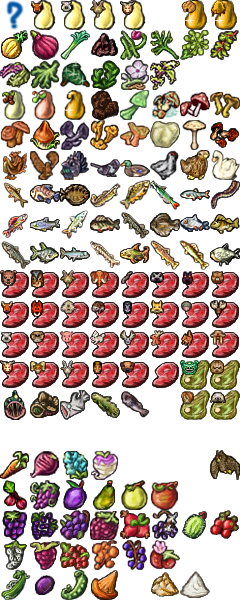
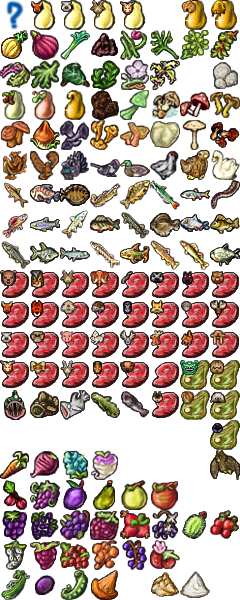
Ant and Wolf added

Changed region(s): [[0.6125, 0.63, 0.7583, 0.72], [0.875, 0.69, 1.0, 0.75], [0.875, 0.09, 0.9917, 0.15]]

diff --git a/tables.js b/tables.js
@@ -83,6 +83,7 @@ var gl_mushroom = [
 	"Parasol Mushroom",
 	"Parboiled Morels",
 	"Troll Mushrooms",
+	"White Truffles",
 	"Yellowfeet"
 ];
 var gl_poultry = [
@@ -137,6 +138,7 @@ var gl_fat = [
 ];
 var gl_meat = [
 	"Adder",
+	"Ant",
 	"Badger",
 	"Bat",
 	"Bear",
@@ -176,10 +178,12 @@ var gl_meat = [
 	"Wild Horse",
 	"Wild Mutton",
 	"Wildgoat",
+	"Wolf",
 	"Wolverine",
 	"Wood Grouse"
 ];
 var gl_meatweird = [
+	"Ant",
 	"Boreworm",
 	"Cave louse",
 	"Chasm conch",
@@ -595,12 +599,7 @@ var gl_food = [
 	["Yellowfeet", [], {"str1" : 1, "int1" : 1}, 125, 1],
 	["Zamorano", [], {"str2" : 3, "agi2" : 3, "psy2" : 3}, 100, 4],
 	
-	//VARIA
-	//unpublished
-
-	["Sizzling Roast Pork", ["spice"], {"str2" : 3.75, "con2" : 3.75}, 250.0, 4.0], 
-	["Hop Jellies", ["spice", "honey"], {"str1": 1, "wil2": 2}, 500, 1],
-	["Cave Skewer",	["meatweird"],	{"psy2" : 2.0, "con1" : 3.0}, 800.0, 3.0],
+//VARIA
 	["Autumn Steak", ["mushroom", "meat", "salad", "spice"], {"con1" : 4, "prc1" : 2, "prc2" : 1}, 800, 3],
 	["Beeted Bird Breast", ["poultry", "fat"], {"con1" : 4, "csm1" : 4, "psy1" : 4}, 750, 5],
 	["Big Bear Banger", ["pork"], {"str1" : 6, "str2" : 4}, 900, 10],
@@ -613,6 +612,7 @@ var gl_food = [
 	["Butter-steamed Cavebulb", ["butter"], {"psy1" : 6, "psy2" : 4}, 600, 3],
 	["Buttered Leeks", ["butter"], {"con1" : 2, "wil2" : 3}, 500, 3],
 	["Candy Apple", ["sweetener"], {"int1" : 2, "csm2" : 1}, 500, 1.5],
+	["Cave Skewer",	["meatweird"],	{"psy2" : 2.0, "con1" : 3.0}, 800.0, 3.0],
 	["Chicken Chorizo", ["mutton"], {"prc1" : 5, "dex1" : 3, "wil1" : 1}, 400, 4.5],
 	["Chicken Salad", ["salad", "spice"], {"con1" : 3, "prc1" : 3, "dex1" : 3}, 500, 5],
 	["Clambake", ["fish", "spice"], {"prc1" : 4, "csm1" : 4, "csm2" : 2}, 500, 5],
@@ -631,6 +631,7 @@ var gl_food = [
 	["Glazed Grazer Dog", ["horse", "honey"], {"str1" : 3, "csm1" : 4, "dex1" : 3}, 600, 4],
 	["Haggis", ["onion", "flour", "mutton"], {"con1" : 5, "csm2" : 3}, 800, 3],
 	["Honey'd Bear", ["fat", "spice", "honey"], {"str2" : 3, "con1" : 2, "wil2" : 3}, 500, 2.5],
+	["Hop Jellies", ["spice", "honey"], {"str1": 1, "wil2": 2}, 500, 1],
 	["Hot Wings", ["butter"], {"str2" : 1, "csm2" : 2, "psy1" : 2}, 500, 2],
 	["Jotun's Morsel", ["meat", "fat", "spice"], {"str1" : 4, "int2" : 2, "con1" : 4, "wil1" : 4}, 1000, 8],
 	["Lamb Sausages", ["pork"], {"prc1" : 7}, 600, 5.5],
@@ -653,6 +654,7 @@ var gl_food = [
 	["Rabbit Food", ["salad"], {"prc1" : 1, "csm1" : 1, "wil1" : 1}, 150, 3],
 	["Red-Shred Salad", ["salad"], {"int1" : 1, "con1" : 2, "csm1" : 1}, 400, 3.5],
 	["Ring of Brodgar (Seafood)", ["fat"], {"agi1" : 3, "prc1" : 2, "psy1" : 4}, 750, 3],
+	["Sizzling Roast Pork", ["spice"], {"str2" : 3.75, "con2" : 3.75}, 250.0, 4.0], 
 	["Spicy Salad", ["tuber", "salad", "onion", "spice"], {"str2" : 1, "agi1" : 1, "csm1" : 3}, 500, 3],
 	["Steak & Tubers", ["meat", "onion", "tuber", "spice"], {"str1" : 2, "con2" : 2, "csm1" : 2}, 800, 4],
 	["Strawberries in Cream", ["milk"], {"int2" : 2, "csm1" : 2, "wil1" : 2}, 500, 1],
@@ -662,10 +664,10 @@ var gl_food = [
 	["Turnip Fries", ["fat"], {"int1" : 2, "prc2" : 2}, 500, 2.5],
 	["Two-Bird Skewer", ["poultry", "tuber", "sweetener"], {"agi1" : 2, "wil1" : 3}, 800, 2.5],
 	["Zesty Brill", ["onion"], {"str1" : 3, "dex1" : 3, "wil1" : 4}, 800, 2.5],
-	//BAKED
+//BAKED
 	["Apple Pie", ["water", "flour", "butter"], {"con1" : 10}, 500, 3.5],
-	["Bark Bread", ["water", "flour"], {"con1" : 5, "wil1" : 5}, 500, 5],
 	["Baked Birchbark Bream", ["onion"], {"int1" : 5, "csm1" : 5, "dex1" : 4}, 600, 3],
+	["Bark Bread", ["water", "flour"], {"con1" : 5, "wil1" : 5}, 500, 5],
 	["Birthday Cake", ["water", "flour", "milk", "butter", "honey"], {"csm2" : 10, "psy2" : 3}, 1000, 3.5],
 	["Blueberry Pie", ["water", "flour"], {"int1" : 4, "prc1" : 3}, 200, 3.5],
 	["Bread", ["water", "flour"], {"con1" : 5}, 500, 6],
@@ -695,8 +697,8 @@ var gl_food = [
 	["Mushroom Pie", ["water", "flour", "mushroom", "fat"], {"int1" : 3, "csm2" : 3}, 750, 3],
 	["Mushroom-Burst Glutton", ["carcass", "mushroom", "spice"], {"con1" : 2, "prc1" : 2, "csm2" : 1}, 750, 3],
 	["Nutjerky", ["meat"], {"str1" : 2, "csm1" : 1, "wil1" : 1}, 500, 2],
-	["Pea Pie", ["water", "flour"], {"con1" : 4, "prc1" : 1, "csm1" : 2}, 500, 3.5],
 	["Pancake", ["butter", "flour", "milk"], {"csm1" : 5}, 500, 4],
+	["Pea Pie", ["water", "flour"], {"con1" : 4, "prc1" : 1, "csm1" : 2}, 500, 3.5],
 	["Pommace Perdue", ["butter", "flour", "milk", "sweetener"], {"agi1" : 3, "prc1" : 4, "csm2" : 1}, 750, 3],
 	["Poultry Pot Pie", ["water", "flour", "poultry"], {"agi1" : 3, "csm1" : 2, "dex2" : 3}, 500, 4],
 	["Pumpkin Bread", ["water", "flour"], {"con1" : 4, "csm1" : 2}, 500, 5],
@@ -722,6 +724,94 @@ var gl_fepmod = [
 	["Meat-in-Jelly", ["Eagle Owl"], {"wil2" : 0.8, "con1" : 4.0, "int1" : 2.0}], 
 	["Butcher's Surprise", ["Eagle Owl"], {"prc1" : 1.0, "dex1" : 1.0, "csm1" : 0.4, "int2" : 1.0}], 
 	["Encumbered Roast", ["Eagle Owl"], {"str2" : 3.0, "wil1" : 2.0, "prc1" : 0.8, "int2" : 2.0}], 
+	["Moules Frites", ["Black Pepper", "Beetroot"], {"dex2" : 4.76, "csm1" : 5.25, "psy1" : 2.86, "dex1" : 2.24}], 
+	["Sweet Beets", ["Wild-bee Honey"], {"con1" : 0.8, "csm1" : 2.8, "wil1" : 2.0}], 
+	["Dressed Lettuce", ["Wild-bee Honey"], {"agi2" : 0.4, "prc2" : 2.0, "csm1" : 4.0, "wil1" : 0.4}], 
+	["Marrow Roast", ["Wolf"], {"csm2" : 1.5, "con1" : 2.0, "wil1" : 2.0, "str2" : 3.0}], 
+	["Marrow Roast", ["Ant"], {"csm2" : 1.2, "con1" : 2.0, "wil1" : 4.7}], 
+	["Marrow Roast", ["Eagle Owl"], {"csm2" : 3.0, "con1" : 2.0, "wil1" : 0.8, "prc1" : 2.0}], 
+	["Glazed Grazer Dog", ["Horse", "Wild-bee Honey"], {"csm1" : 0.96, "str1" : 3.0, "dex1" : 3.0, "agi2" : 2.4, "wil1" : 0.96}], 
+	["Glazed Grazer Dog", ["Wild-bee Honey", "Wild Horse"], {"csm1" : 1.6, "str1" : 4.2, "dex1" : 3.0, "wil1" : 0.4}], 
+	["Encumbered Roast", ["Ant"], {"str2" : 1.2, "wil1" : 2.0, "prc1" : 2.0, "agi1" : 2.7}], 
+	["Encumbered Roast", ["Wolf"], {"str2" : 4.5, "wil1" : 2.0, "prc1" : 2.0}], 
+	["Butcher's Surprise", ["Ant"], {"prc1" : 0.4, "dex1" : 1.0, "csm1" : 1.0, "agi1" : 0.9}], 
+	["Butcher's Surprise", ["Wolf"], {"prc1" : 0.5, "dex1" : 1.0, "csm1" : 1.0, "str1" : 1.0}], 
+	["Cave Skewer", ["Ant"], {"psy2" : 0.8, "con1" : 3.0, "wil1" : 1.8}], 
+
+	["Beeted Bird Breast", ["Eagle Owl", "Cowsmilk"], {"con1" : 3.0, "csm1" : 4.0, "psy1" : 1.2, "int1" : 4.0, "str1" : 1.96}], 
+	["Beeted Bird Breast", ["Eagle Owl", "Goatsmilk"], {"con1" : 3.0, "csm1" : 4.0, "psy1" : 1.2, "int1" : 4.0, "wil1" : 1.96}], 
+	["Beeted Bird Breast", ["Eagle Owl", "Sheepsmilk"], {"con1" : 3.0, "csm1" : 4.0, "psy1" : 1.2, "int1" : 4.0, "dex1" : 1.96}], 
+	["Beeted Bird Breast", ["Eagle Owl", "Aurochs Milk"], {"con1" : 2.6, "csm1" : 4.0, "psy1" : 1.04, "int1" : 4.0, "str1" : 1.4}], 
+	["Broiled Burbot", ["Laurel Leaves", "Heartwood Leaves"], {"wil2" : 2.8, "csm1" : 8.94, "int1" : 1.2}], 
+	["Broiled Burbot", ["Heartwood Leaves", "Chives"], {"wil2" : 2.8, "csm1" : 6.0, "int1" : 1.2, "agi1" : 1.1765}], 
+	["Broiled Burbot", ["Black Pepper", "Heartwood Leaves"], {"wil2" : 4.172, "csm1" : 8.58, "int1" : 1.788}], 
+	["Broiled Burbot", ["Heartwood Leaves", "Kvann"], {"wil2" : 1.2, "csm1" : 2.8, "int1" : 6.0}], 
+	["Broiled Burbot", ["Heartwood Leaves", "Dill"], {"wil2" : 2.8, "csm1" : 8.4, "int1" : 1.2}], 
+	["Deep Fried Bird", ["Eagle Owl", "Wheat Flour", "Aurochs Milk", "Aurochs Milk"], {"con2" : 2.4, "csm1" : 0.36, "int2" : 0.9, "con1" : 1.8, "str1" : 2.1}], 
+	["Deep Fried Bird", ["Eagle Owl", "Barley Flour", "Aurochs Milk", "Aurochs Milk"], {"con2" : 0.9, "csm1" : 1.08, "int2" : 3.0, "str1" : 1.836}], 
+	["Deep Fried Bird", ["Eagle Owl", "Goatsmilk", "Wheat Flour", "Goatsmilk"], {"con2" : 1.5, "csm1" : 0.6, "int2" : 2.4, "wil1" : 2.94, "con1" : 1.8}], 
+	["Deep Fried Bird", ["Eagle Owl", "Barley Flour", "Goatsmilk", "Goatsmilk"], {"con2" : 1.5, "csm1" : 1.08, "int2" : 3.0, "wil1" : 2.394}], 
+	["Deep Fried Bird", ["Eagle Owl", "Sheepsmilk", "Wheat Flour", "Sheepsmilk"], {"con2" : 1.5, "csm1" : 0.6, "int2" : 2.4, "dex1" : 2.94, "con1" : 1.8}], 
+	["Deep Fried Bird", ["Eagle Owl", "Barley Flour", "Sheepsmilk", "Sheepsmilk"], {"con2" : 1.5, "csm1" : 1.08, "int2" : 3.0, "dex1" : 2.394}], 
+	["Deep Fried Bird", ["Eagle Owl", "Cowsmilk", "Wheat Flour", "Cowsmilk"], {"con2" : 1.5, "csm1" : 0.6, "int2" : 2.4, "str1" : 2.94, "con1" : 1.8}], 
+	["Deep Fried Bird", ["Eagle Owl", "Barley Flour", "Cowsmilk", "Cowsmilk"], {"con2" : 1.5, "csm1" : 1.08, "int2" : 3.0, "str1" : 2.394}], 
+	["Deep Fried Bird", ["Eagle Owl", "Wheat Flour"], {"con2" : 2.4, "csm1" : 1.2, "int2" : 3.0, "con1" : 1.8}], 
+	["Deep Fried Bird", ["Eagle Owl", "Barley Flour"], {"con2" : 3.0, "csm1" : 1.08, "int2" : 3.0, "str1" : 0.42}], 
+	["Meat-in-Jelly", ["Ant"], {"wil2" : 0.8, "con1" : 4.0, "wil1" : 1.8}], 
+	["Meat-in-Jelly", ["Wolf"], {"wil2" : 2.0, "con1" : 2.0, "str2" : 4.0}], 
+	["Leeky Fowl", ["Eagle Owl", "Cowsmilk"], {"csm2" : 1.5, "csm1" : 2.0, "int1" : 0.6, "prc1" : 2.0, "con1" : 0.98}], 
+	["Leeky Fowl", ["Eagle Owl", "Goatsmilk"], {"csm2" : 1.5, "csm1" : 2.0, "int1" : 0.6, "prc1" : 2.0, "dex1" : 0.98}], 
+	["Leeky Fowl", ["Eagle Owl", "Sheepsmilk"], {"csm2" : 1.5, "csm1" : 2.98, "int1" : 0.6, "prc1" : 2.0}], 
+	["Leeky Fowl", ["Eagle Owl", "Aurochs Milk"], {"csm2" : 1.3, "csm1" : 2.0, "int1" : 0.52, "prc1" : 2.0, "con1" : 0.7}], 
+	["Jotun's Morsel", ["Eagle Owl"], {"str1" : 4.0, "con1" : 4.0, "wil1" : 4.0, "int2" : 0.8, "prc1" : 2.0}], 
+	["Jotun's Morsel", ["Ant"], {"str1" : 1.6, "con1" : 4.0, "wil1" : 4.0, "int2" : 2.0, "agi1" : 3.6}], 
+	["Jotun's Morsel", ["Wolf"], {"str1" : 6.0, "con1" : 4.0, "wil1" : 4.0, "int2" : 2.0}], 
+	["Honey'd Bear", ["Wild-bee Honey"], {"wil2" : 1.2, "str2" : 3.0, "con1" : 2.0, "csm1" : 1.2}], 
+	["Honey'd Bear", ["Laurel Leaves", "Wild-bee Honey"], {"wil2" : 1.764, "str2" : 3.0, "con1" : 2.0, "csm1" : 1.764}], 
+	["Honey'd Bear", ["Black Pepper", "Wild-bee Honey"], {"wil2" : 1.764, "str2" : 5.31, "con1" : 2.76, "csm1" : 1.764}], 
+	["Honey'd Bear", ["Wild-bee Honey", "Chives"], {"wil2" : 1.2, "str2" : 3.0, "con1" : 2.0, "csm1" : 1.2, "agi1" : 0.7683}], 
+	["Honey'd Bear", ["Wild-bee Honey", "Dill"], {"wil2" : 1.2, "str2" : 3.0, "con1" : 2.76, "csm1" : 1.2}], 
+	["Honey'd Bear", ["Wild-bee Honey", "Kvann"], {"wil2" : 1.2, "str2" : 2.0, "con1" : 1.2, "csm1" : 3.0}], 
+	["Marrow Cake", ["Barley Flour", "Wild-bee Honey"], {"dex2" : 1.2, "str1" : 2.7, "con1" : 1.05, "csm1" : 1.2}], 
+	["Marrow Cake", ["Wild-bee Honey", "Wheat Flour"], {"dex2" : 1.2, "str1" : 2.4, "csm1" : 1.2, "agi1" : 1.8}], 
+	["Meatpie", ["Wolf", "Wheat Flour"], {"str1" : 6.0, "con1" : 4.0, "agi1" : 4.5}], 
+	["Meatpie", ["Wolf", "Barley Flour"], {"str1" : 7.5, "con1" : 5.0}], 
+	["Meatpie", ["Barley Flour", "Ant"], {"str1" : 2.0, "con1" : 5.0, "wil1" : 4.5}], 
+	["Meatpie", ["Ant", "Wheat Flour"], {"str1" : 2.0, "con1" : 6.7, "wil1" : 3.6}], 
+	["Meatpie", ["Grey Seal", "Wheat Flour", "Dill"], {"str1" : 2.7, "con1" : 4.0, "dex2" : 8.0, "agi1" : 6.0}], 
+	["Meatpie", ["Grey Seal", "Chives", "Wheat Flour"], {"str1" : 2.5, "con1" : 4.0, "dex2" : 8.0, "agi1" : 6.0811}], 
+	["Meatpie", ["Grey Seal", "Black Pepper", "Wheat Flour"], {"str1" : 4.925, "con1" : 5.12, "dex2" : 15.36, "agi1" : 11.52}], 
+	["Meatpie", ["Grey Seal", "Wheat Flour", "Kvann"], {"str1" : 6.0, "con1" : 2.5, "dex2" : 8.0, "agi1" : 4.0}], 
+	["Meatpie", ["Barley Flour", "Ant", "Chives"], {"str1" : 2.0, "con1" : 5.0, "wil1" : 4.5, "agi1" : 0.0565}], 
+	["Meatpie", ["Barley Flour", "Ant", "Dill"], {"str1" : 2.0, "con1" : 5.0, "wil1" : 4.86}], 
+	["Meatpie", ["Barley Flour", "Ant", "Kvann"], {"str1" : 5.0, "con1" : 2.0, "wil1" : 4.5}], 
+	["Meatpie", ["Laurel Leaves", "Ant", "Wheat Flour"], {"str1" : 2.0, "con1" : 3.744, "wil1" : 4.5, "prc1" : 2.808}], 
+	["Meatpie", ["Black Pepper", "Ant", "Wheat Flour"], {"str1" : 3.94, "con1" : 10.439, "wil1" : 7.092}], 
+	["Meatpie", ["Ant", "Chives", "Wheat Flour"], {"str1" : 2.0, "con1" : 6.7, "wil1" : 3.6, "agi1" : 0.0516}], 
+	["Meatpie", ["Ant", "Wheat Flour", "Dill"], {"str1" : 2.0, "con1" : 6.7, "wil1" : 3.888}], 
+	["Meatpie", ["Ant", "Wheat Flour", "Kvann"], {"str1" : 6.7, "con1" : 2.0, "wil1" : 3.6}], 
+	["Meatpie", ["Wolf", "Barley Flour", "Kvann"], {"str1" : 5.0, "con1" : 7.5}], 
+	["Meatpie", ["Wolf", "Barley Flour", "Chives"], {"str1" : 7.5, "con1" : 5.0, "agi1" : 0.0614}], 
+	["Meatpie", ["Barley Flour", "Laurel Leaves", "Ant"], {"str1" : 2.0, "con1" : 5.85, "wil1" : 4.5}], 
+	["Meatpie", ["Wolf", "Barley Flour", "Dill"], {"str1" : 8.1, "con1" : 5.0}], 
+	["Meatpie", ["Wolf", "Barley Flour", "Black Pepper"], {"str1" : 14.775, "con1" : 6.4}], 
+	["Meatpie", ["Barley Flour", "Black Pepper", "Ant"], {"str1" : 3.94, "con1" : 6.4, "wil1" : 8.865}], 
+	["Meatpie", ["Eagle Owl", "Barley Flour", "Kvann"], {"str1" : 2.0, "con1" : 5.0, "prc1" : 4.0}], 
+	["Meatpie", ["Eagle Owl", "Barley Flour", "Dill"], {"str1" : 5.0, "con1" : 2.0, "prc1" : 4.32}], 
+	["Meatpie", ["Wolf", "Laurel Leaves", "Wheat Flour"], {"str1" : 6.0, "con1" : 4.68, "agi1" : 4.5}], 
+	["Meatpie", ["Wolf", "Black Pepper", "Wheat Flour"], {"str1" : 11.82, "con1" : 5.12, "agi1" : 8.865}], 
+	["Meatpie", ["Wolf", "Chives", "Wheat Flour"], {"str1" : 6.0, "con1" : 4.0, "agi1" : 4.5565}], 
+	["Meatpie", ["Wolf", "Wheat Flour", "Dill"], {"str1" : 6.0, "con1" : 4.0, "agi1" : 4.86}], 
+	["Meatpie", ["Wolf", "Wheat Flour", "Kvann"], {"str1" : 4.0, "con1" : 6.0, "agi1" : 4.5}], 
+	["Meatpie", ["Wolf", "Barley Flour", "Laurel Leaves"], {"str1" : 7.5, "con1" : 5.85}], 
+	["Meatpie", ["Eagle Owl", "Black Pepper", "Wheat Flour"], {"str1" : 7.88, "con1" : 2.048, "prc1" : 6.08, "agi1" : 5.91}], 
+	["Meatpie", ["Eagle Owl", "Barley Flour", "Black Pepper"], {"str1" : 9.85, "con1" : 2.56, "prc1" : 6.08}], 
+	["Meatpie", ["Eagle Owl", "Laurel Leaves", "Wheat Flour"], {"str1" : 4.0, "con1" : 1.872, "prc1" : 4.0, "agi1" : 3.0}], 
+	["Meatpie", ["Eagle Owl", "Barley Flour", "Laurel Leaves"], {"str1" : 5.0, "con1" : 2.34, "prc1" : 4.0}], 
+	["Meatpie", ["Eagle Owl", "Wheat Flour", "Kvann"], {"str1" : 3.0, "con1" : 4.0, "prc1" : 4.0, "agi1" : 1.6}], 
+	["Meatpie", ["Eagle Owl", "Chives", "Wheat Flour"], {"str1" : 4.0, "con1" : 1.6, "prc1" : 4.0, "agi1" : 3.0521}], 
+	["Meatpie", ["Eagle Owl", "Wheat Flour", "Dill"], {"str1" : 4.32, "con1" : 1.6, "prc1" : 4.0, "agi1" : 3.0}], 
+	["Meatpie", ["Eagle Owl", "Barley Flour", "Chives"], {"str1" : 5.0, "con1" : 2.0, "prc1" : 4.0, "agi1" : 0.054}], 
 /*unpublished end*/
 
 	["Moules Frites", ["Carrot"], {"dex2" : 3.2, "csm1" : 3.0, "psy1" : 2.0, "prc1" : 1.4}], 

diff --git a/gfx/food.css b/gfx/food.css
@@ -322,9 +322,9 @@
 ._sheepscurd {background-image: url("http://www.havenandhearth.com/mt/r/gfx/invobjs/curd-sheep")}
 ._shepherdspie {background-image: url("http://www.havenandhearth.com/mt/r/gfx/invobjs/shepherdspie")}
 ._sizzlingroastpork {background-image: url("http://www.havenandhearth.com/mt/r/gfx/invobjs/meat-roast")}
-._sloanberries {background-image: url("http://www.havenandhearth.com/mt/r/gfx/invobjs/seed-sandthorn")}
+._sloanberries {background-image: url("http://www.havenandhearth.com/mt/r/gfx/invobjs/seed-blackthorn")}
 ._spicysalad {background-image: url("http://www.havenandhearth.com/mt/r/gfx/invobjs/spicysalad")}
-._spitroastadder {background-image: url("http://www.havenandhearth.com/mt/r/gfx/invobjs/seed-blackthorn")}
+._spitroastadder {background-image: url("http://www.havenandhearth.com/mt/r/gfx/invobjs/meat-spitroast")}
 ._spitroastasp {background-image: url("http://www.havenandhearth.com/mt/r/gfx/invobjs/meat-sfilet")}
 ._spitroastbadger {background-image: url("http://www.havenandhearth.com/mt/r/gfx/invobjs/meat-spitroast")}
 ._spitroastbat {background-image: url("http://www.havenandhearth.com/mt/r/gfx/invobjs/meat-spitroast")}

diff --git a/gfx/ingredient.css b/gfx/ingredient.css
@@ -53,6 +53,7 @@
 .cavelantern		{background-position: -120px -90px}
 .parboiledmorels{background-position: -150px -90px}
 .trollmushrooms {background-position: -180px -90px}
+.whiteruffles 	{background-position: -210px -60px}
 .yellowfeet 		{background-position: -210px -90px}
 
 .asp 					{background-position: -0px -180px}
@@ -128,6 +129,7 @@
 .squirrel 			{background-position: -180px -330px}
 .walrus 				{background-position: -210px -330px}
 
+
 .wildbeef 			{background-position: -0px    -360px}
 .wildmutton 		{background-position: -30px   -360px}
 .wildgoat 			{background-position: -60px   -360px}
@@ -138,7 +140,11 @@
 .boreworm 			{background-position: -210px  -360px}
 .cavelouse 			{background-position: -210px  -390px}
 .chasmconch 		{background-position: -180px  -390px}
+
+.ant				 		{background-position: -210px  -420px}
  
+.wolf		 				{background-position: -150px -390px}
+
 .carrot 	{background-position: -0px    -450px}
 .beetroot {background-position: -30px   -450px}
 .cavebulb {background-position: -60px   -450px}

diff --git a/options.js b/options.js
@@ -1,7 +1,7 @@
 var basicURL = "http://www.havenandhearth.com/mt/r/gfx/invobjs/";
 var table = document.getElementById("data");
 var opts = { theme : "light", debug : false, limit : 50, textmode : false };
-var strictMatch = ["beef", "asp", "bream", "horse", "goat", "mutton", "troll", "venison", "beetroot"];
+var strictMatch = ["beef", "asp", "bream", "horse", "goat", "mutton", "troll", "venison", "beetroot", "ant"];
 
 var evSName = {
 	str1 : "str",
